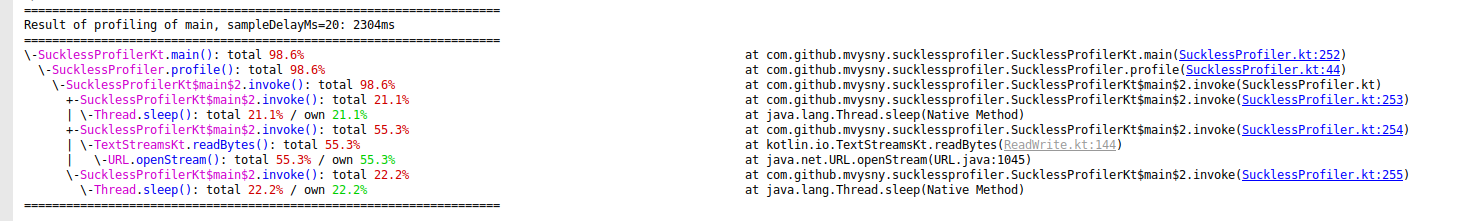
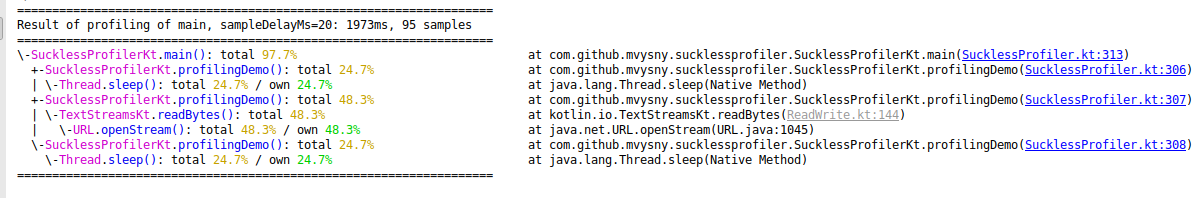
updated demo code and screenshot

Changed region(s): [[0.4302, 0.2121, 1.0, 0.8788], [0.0, 0.0303, 0.4302, 0.9394]]

diff --git a/src/main/kotlin/com/github/mvysny/sucklessprofiler/SucklessProfiler.kt b/src/main/kotlin/com/github/mvysny/sucklessprofiler/SucklessProfiler.kt
@@ -298,12 +298,17 @@ private class PrettyPrintTreeNode(internal val name: String, internal val childr
     }
 }
 
-fun main(args: Array<String>) {
+private fun profilingDemo() {
     SucklessProfiler().apply {
+        leftPaneSizeChars = 70
         coloredDump = true
     }.profile {
         Thread.sleep(500)
         println(URL("https://aedict-online.eu").readText())
         Thread.sleep(500)
     }
+}
+
+fun main(args: Array<String>) {
+    profilingDemo()
 }
